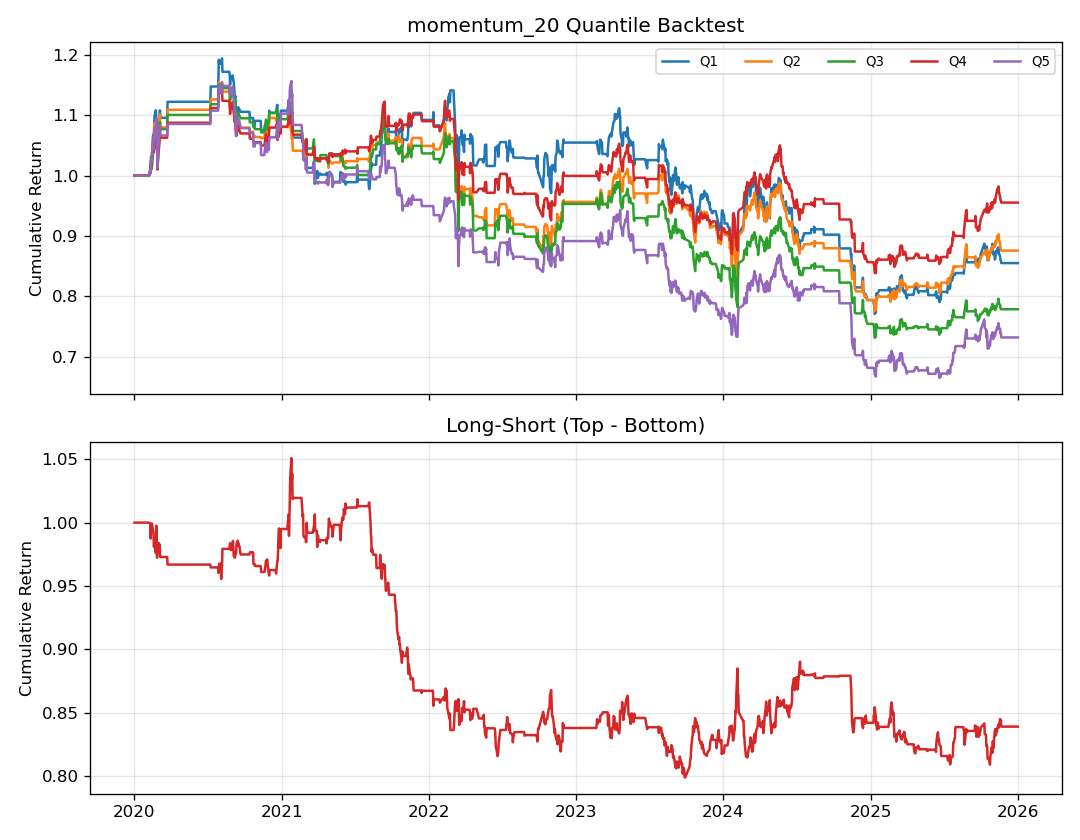
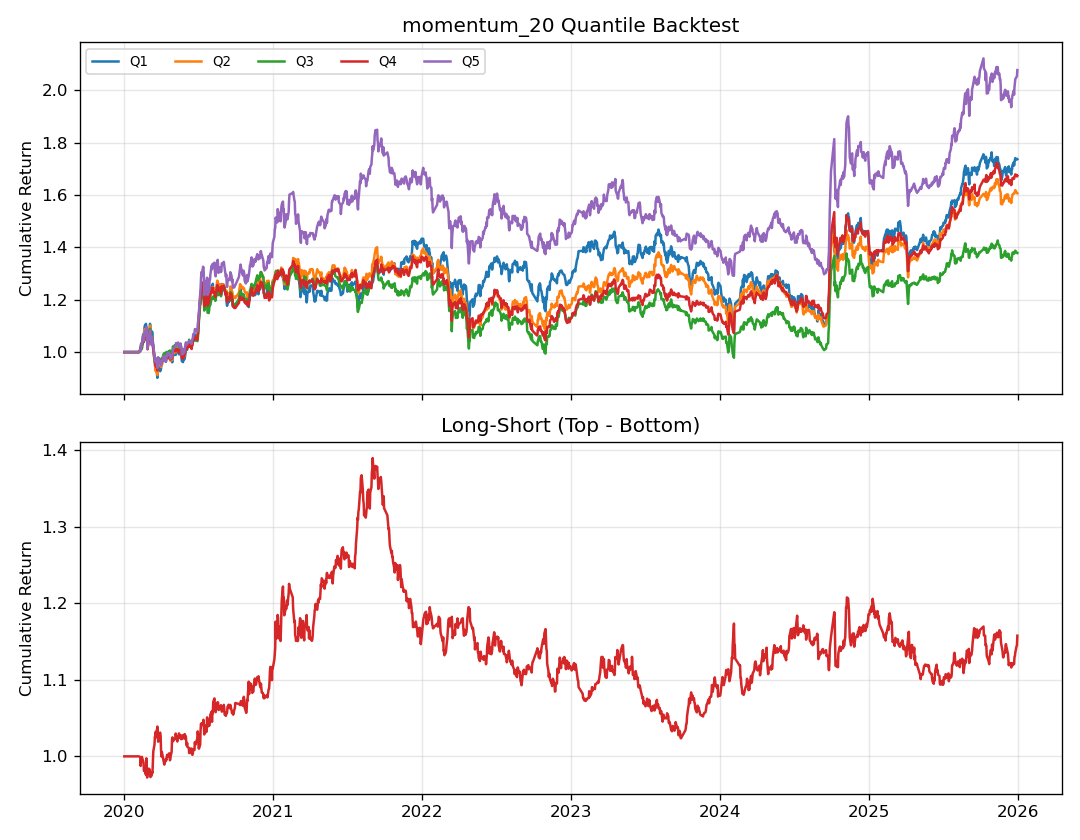
修复中性化 NaN 扩散 bug 并更新报告与图表

diff --git a/src/preprocess.py b/src/preprocess.py
@@ -70,23 +70,37 @@ def build_exposures(market_cap=None, industry=None, use_size=True, use_industry=
 
 
 def neutralize(factor, exposures):
-    """中性化：把因子对暴露变量做横截面回归，取残差，去掉市值/行业影响。"""
+    """中性化：把因子对暴露变量做横截面回归，取残差，去掉市值/行业影响。
+
+    逐日回归：每天只用当天非 NaN 的股票做 OLS，避免停牌股把 NaN 扩散到整个横截面。
+    """
     # 只保留同时出现在因子和暴露矩阵里的股票
     common = factor.columns.intersection(exposures.index)
     X = exposures.loc[common].copy()
     # 在最前面加一列常数 1，代表截距项
     X.insert(0, "const", 1.0)
     Xv = X.values.astype(float)
-    # 因子值矩阵：行是日期，列是股票
-    Y = factor[common].values.astype(float)
 
-    # 投影矩阵 P = X (X'X)^-1 X'，用它把 Y 投影到 X 张成的空间
-    # 因为暴露矩阵对每天都是同一个，所以 P 只需算一次，可以向量化处理所有日期
-    P = Xv @ np.linalg.pinv(Xv)
-    # 残差 = Y - Y 在 X 上的投影，即去掉了 X 能解释的部分
-    residual = Y - Y @ P.T
-    # 把残差转回 DataFrame，保持原来的日期索引和股票列
-    return pd.DataFrame(residual, index=factor.index, columns=common)
+    # 用字典保存每一天的残差
+    out = {}
+    # 逐日回归：iterrows 每次取一行，即某一天的横截面
+    for date, row in factor[common].iterrows():
+        # 当天所有股票的因子值（列向量）
+        y = row.values.astype(float)
+        # 找出当天非 NaN 的股票
+        valid = ~np.isnan(y)
+        # 有效股票数不足以回归（少于解释变量个数），这一天的残差全部记为 NaN
+        if valid.sum() <= Xv.shape[1]:
+            out[date] = pd.Series(np.nan, index=common)
+            continue
+        # 只用非 NaN 股票做最小二乘，求系数 β
+        beta, *_ = np.linalg.lstsq(Xv[valid], y[valid], rcond=None)
+        # 残差 = y - Xβ（对全部股票计算，停牌的 NaN 股票残差仍是 NaN）
+        residual = y - Xv @ beta
+        out[date] = pd.Series(residual, index=common)
+
+    # 字典转 DataFrame：行 = 日期，列 = 股票
+    return pd.DataFrame(out).T
 
 
 def preprocess(factor, config, exposures=None):

diff --git a/docs/report.md b/docs/report.md
@@ -1,33 +1,33 @@
 # 单因子研究报告
 
 - 组合因子：momentum_20
-- 年化收益：-20.05%
-- 年化波动：7.40%
-- 夏普比率：-2.99
-- 最大回撤：-72.83%
+- 年化收益：-20.16%
+- 年化波动：10.50%
+- 夏普比率：-2.09
+- 最大回撤：-73.73%
 
 ## 因子检验汇总
 
 | 因子          |   IC均值 |   IC标准差 |    ICIR |   RankIC均值 |   t统计量 |    p值 |   IC为正占比 | 显著(5%)   |
 |:--------------|---------:|-----------:|--------:|-------------:|----------:|-------:|-------------:|:-----------|
-| momentum_20   |  -0.0048 |     0.1115 | -0.0428 |      -0.0124 |   -1.1463 | 0.252  |       0.4832 | False      |
-| momentum_60   |  -0.0017 |     0.1226 | -0.014  |      -0.0067 |   -0.355  | 0.7227 |       0.4946 | False      |
-| momentum_120  |   0.0017 |     0.1237 |  0.0136 |      -0.0002 |    0.3556 | 0.7223 |       0.5174 | False      |
-| reversal_5    |   0.0006 |     0.1021 |  0.0059 |       0.0139 |    0.1721 | 0.8634 |       0.4923 | False      |
-| volatility_20 |  -0.0028 |     0.1044 | -0.0272 |      -0.0235 |   -0.4956 | 0.6205 |       0.4819 | False      |
-| turnover_20   |  -0.0037 |     0.0961 | -0.0386 |      -0.0179 |   -0.7246 | 0.4692 |       0.4659 | False      |
+| momentum_20   |  -0.0001 |     0.1117 | -0.0005 |      -0.0108 |   -0.0195 | 0.9845 |       0.5014 | False      |
+| momentum_60   |   0.0009 |     0.1207 |  0.0076 |      -0.0059 |    0.2832 | 0.7771 |       0.5122 | False      |
+| momentum_120  |   0.0017 |     0.1214 |  0.0139 |      -0.0007 |    0.5062 | 0.6128 |       0.5195 | False      |
+| reversal_5    |   0.0024 |     0.1013 |  0.024  |       0.016  |    0.9144 | 0.3606 |       0.5059 | False      |
+| volatility_20 |   0.0012 |     0.1082 |  0.0114 |      -0.0214 |    0.4325 | 0.6655 |       0.5    | False      |
+| turnover_20   |  -0.0032 |     0.0956 | -0.034  |      -0.0186 |   -1.2871 | 0.1983 |       0.4836 | False      |
 
 ## 分层各档年化收益
 
 |    | 年化收益   |
 |---:|:-----------|
-|  1 | -2.67%     |
-|  2 | -2.27%     |
-|  3 | -4.24%     |
-|  4 | -0.79%     |
-|  5 | -5.25%     |
+|  1 | 10.03%     |
+|  2 | 8.56%      |
+|  3 | 5.71%      |
+|  4 | 9.33%      |
+|  5 | 13.50%     |
 
-- 单调性 Spearman 相关：-0.300
+- 单调性 Spearman 相关：0.300
 
 
 ## 图表
